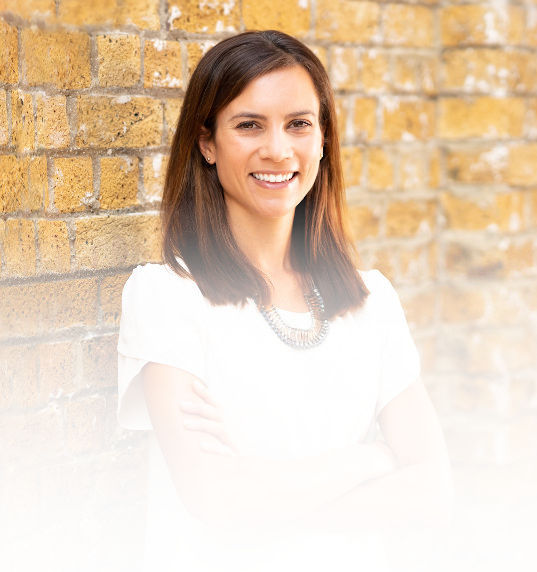
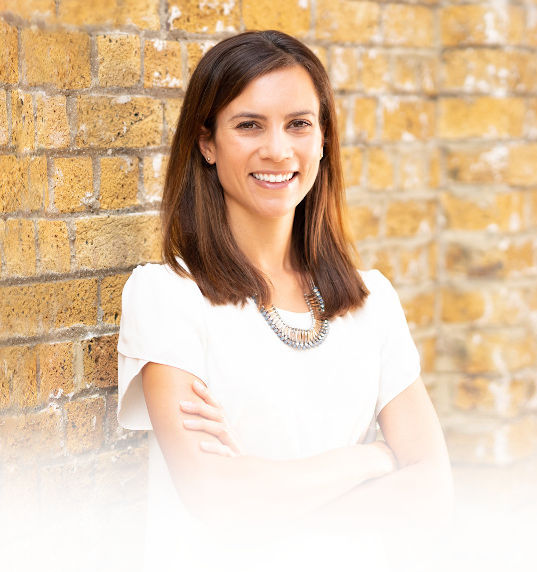
fix(hero image): reduced white, increased vh

Changed region(s): [[0.0, 0.3566, 1.0, 0.8322]]

diff --git a/src/components/HeroText/HeroText.js b/src/components/HeroText/HeroText.js
@@ -4,7 +4,7 @@ import PropTypes from 'prop-types'
 
 const HeroText = ({ headerText, className }) => (
   <div className="container-fluid">
-    <div className={[className, 'container h-100 py-5'].join(' ')}>
+    <div className={[className, 'container h-100'].join(' ')}>
       <div className={['row h-100'].join(' ')}>
         <div className="h-100 col-12 col-sm-6 d-flex align-items-end align-items-sm-center">
           <h1
@@ -33,6 +33,7 @@ const StyledHeroText = styled(HeroText)`
     padding-right: 0;
     h1 {
       color: #6c757d;
+      opacity: 0.95;
     }
   }
 `

diff --git a/src/scss/themes/_bootstrap_overrides.scss b/src/scss/themes/_bootstrap_overrides.scss
@@ -21,6 +21,16 @@ $container-max-widths: (
   xxl: 1160px,
 );
 
+// // scss-docs-start grid-breakpoints
+// $grid-breakpoints: (
+//   xs: 0,
+//   sm: 576px,
+//   md: 768px,
+//   lg: 992px,
+//   xl: 1200px,
+//   xxl: 1400px,
+// ) !default;
+
 $carousel-control-color: black;
 
 // $enable-reduced-motion: true;

diff --git a/src/components/HeroBanner/HeroBanner.js b/src/components/HeroBanner/HeroBanner.js
@@ -36,7 +36,7 @@ const HeroBanner = styled(Banner)`
   background-size: cover;
   min-height: 60vh;
   @media (max-width: 541px) {
-    min-height: 50vh;
+    min-height: 60vh;
   }
 `
 
